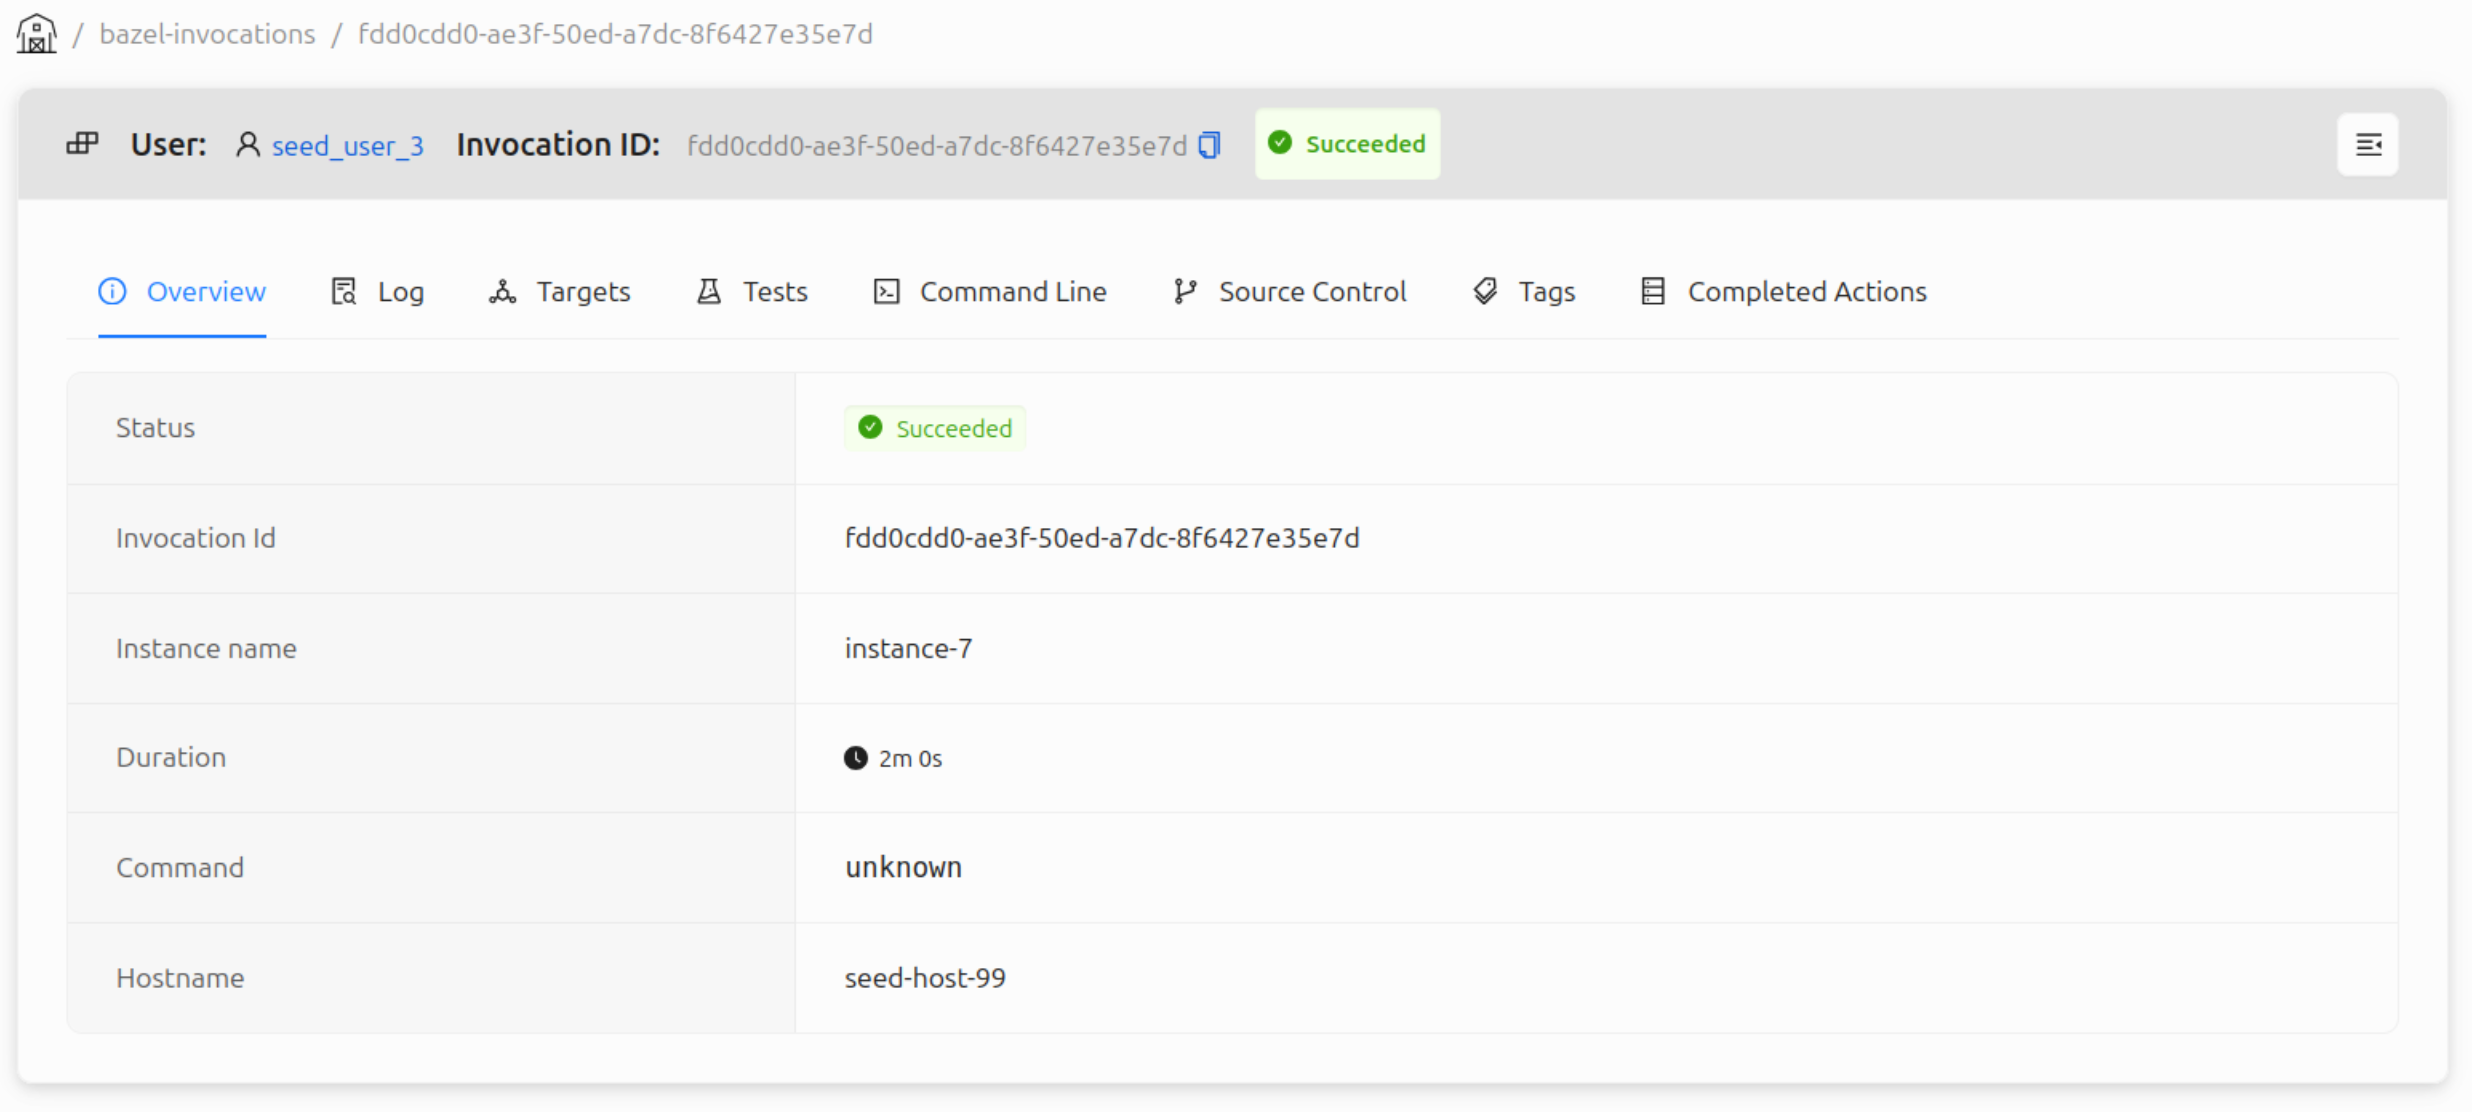
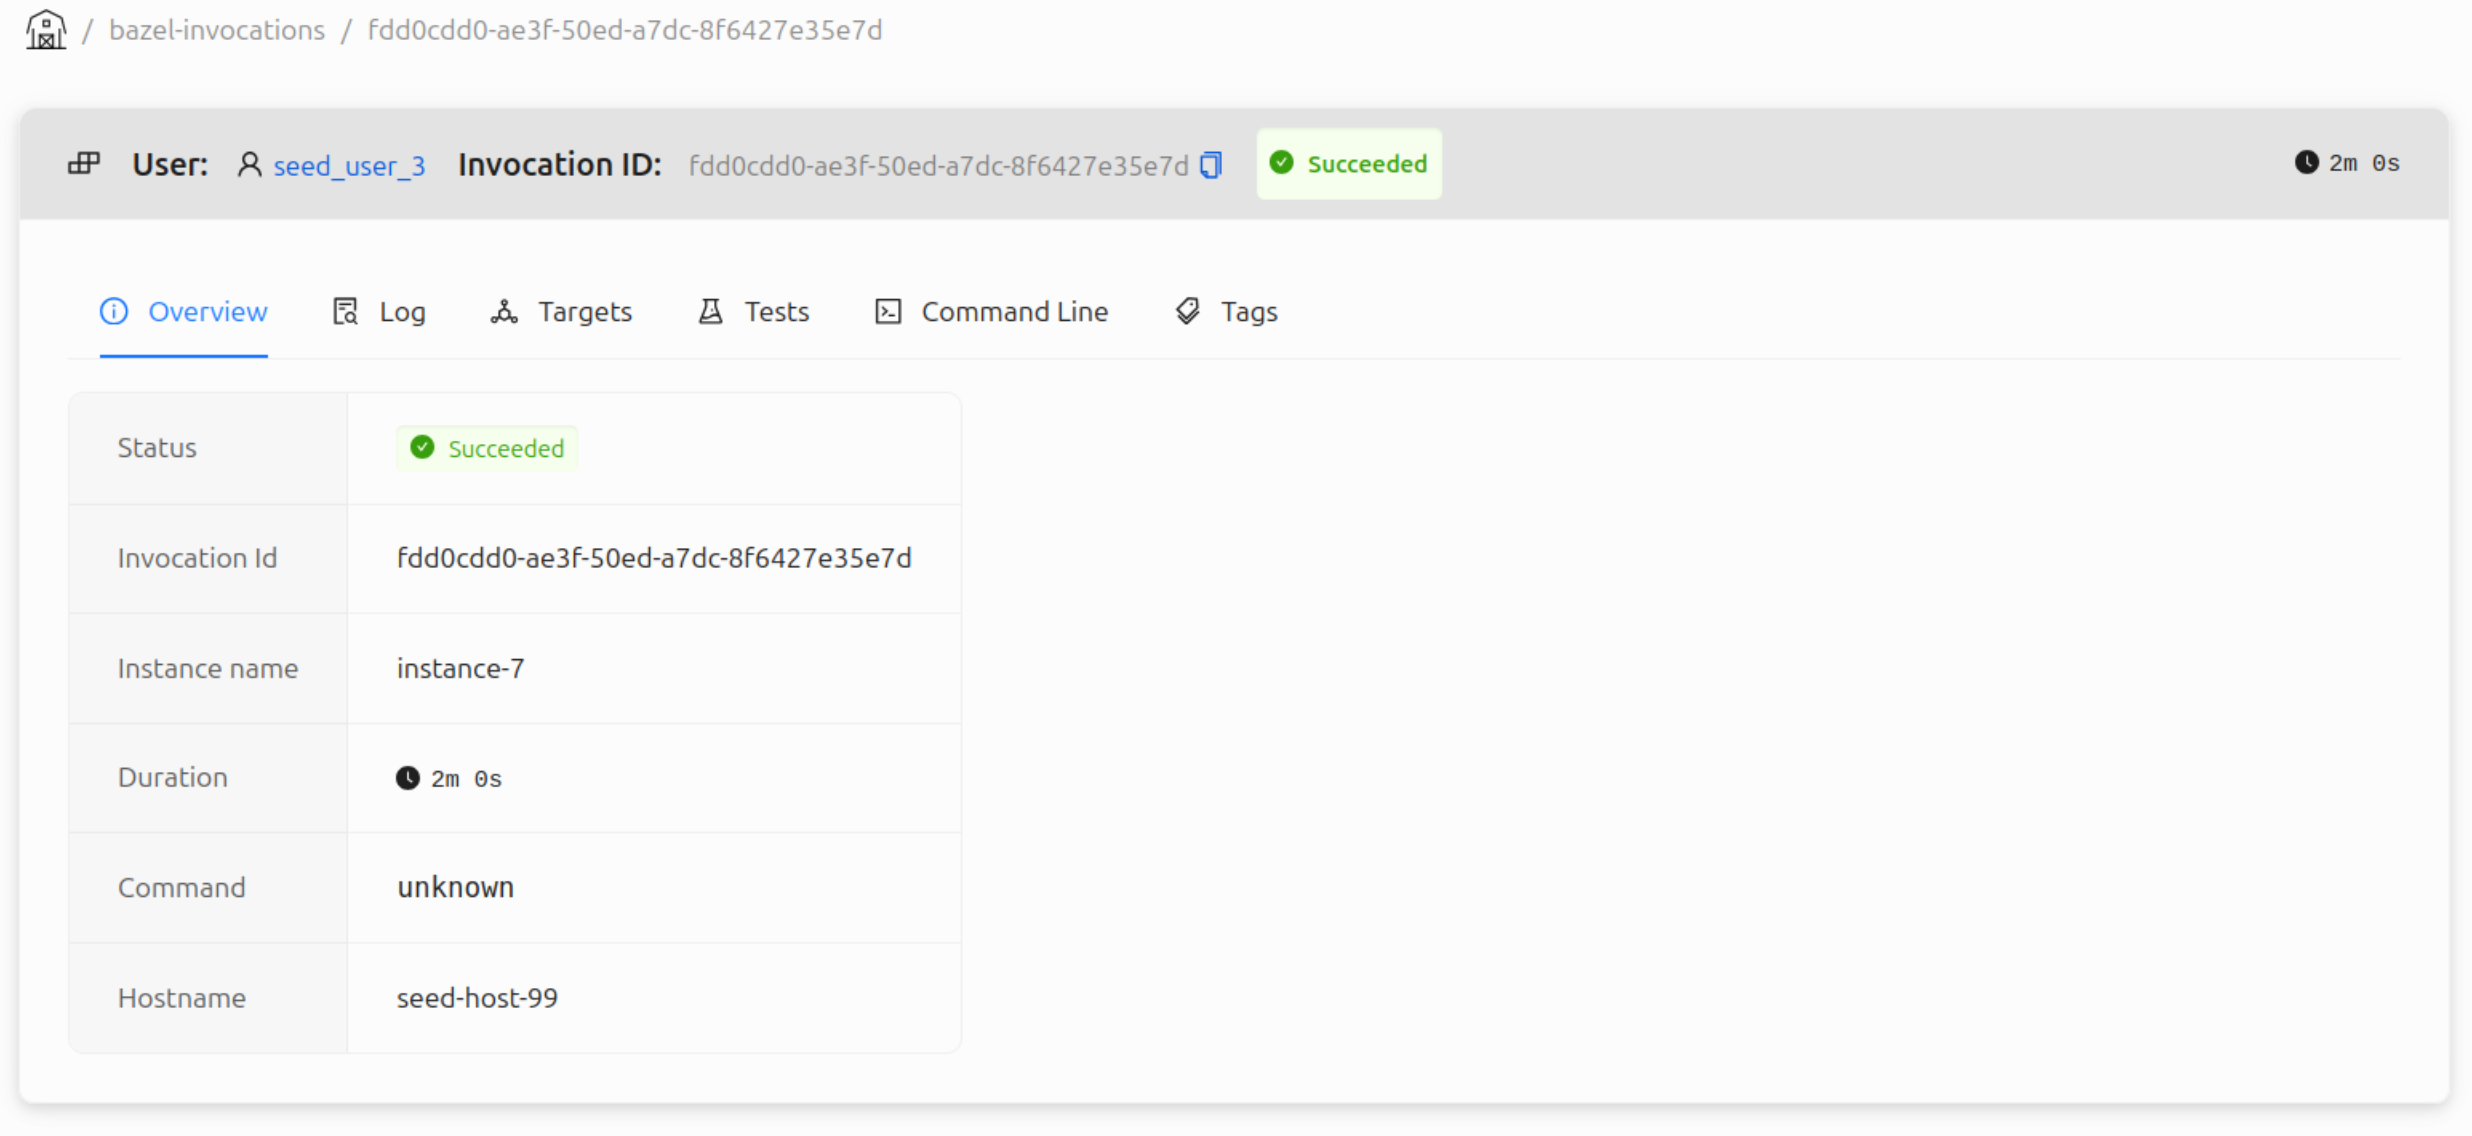
Revise from feedback

diff --git a/blog/2026-08-19-bb-portal/2026-09-16-bb-portal-showcase.md b/blog/2026-08-19-bb-portal/2026-09-16-bb-portal-showcase.md
@@ -26,18 +26,19 @@ tests, and targets; the storage daemon shares information
 about objects in the Action Cache (AC) and Content Addressable Storage (CAS);
 the scheduler shares information about workers and execution status.
 
-An example setup in of Buildbarn with the portal can be found in [bb-deployments](https://github.com/buildbarn/bb-deployments/):
+An example setup of Buildbarn with the portal can be found in [bb-deployments](https://github.com/buildbarn/bb-deployments/):
 
 ![bb-deployments-example](./bb-deployments-example.jpg)
 
 Much like other Buildbarn components, the portal's endpoints and services
 can be protected by configuring authentication policies and authorizers.
-The portal uses instances names to determine access.
+The portal uses instance names to determine access.
 
 ## Build event processing
 
-BEP event data are processed and stored in the portal's database.
-The events can be published to the portal in two ways: either from an uploaded file,
+BEP event data is processed and stored in the portal's database.
+The events can be published to the portal in two ways: either from an uploaded file
+created by Bazel using the `--build_event_json_file` flag,
 or as a stream from Bazel with its [Build Event Service](https://bazel.build/remote/bep#build-event-service)
 (BES) protocol, which essentially consists of gRPC encoded BEP events.
 
@@ -46,37 +47,33 @@ or as a stream from Bazel with its [Build Event Service](https://bazel.build/rem
 An invocation contains information relating to a single Bazel
 command, such as `run`, `build`, or `test`. 
 
-***TODO: Remove corresponding tab in image if Completed Actions Log is excluded***
-
 ![invocations-table](./invocations-table.png)
 
-The portal stores invocation data such as the command log, targets,
+The portal stores invocation data such as the command line, logs, targets,
 action cache and timing metrics, and more. If authentication is
 configured for the BES service, the user responsible for the invocation
 can be saved to the database and will then be linked to the invocation.
-
-***TODO: Remove corresponding tab in image if Completed Actions Log is excluded***
 
 ![invocation-details](./invocation-details.png)
 
 An invocation can be associated with metadata extracted from the machine
 running the Bazel command. This is useful when running
 Bazel on a CI runner, as the invocation can be associated with information
-pertaining to what triggered the invocation.
+pertaining to what triggered it.
 
 The metadata extraction is configurable to suit different CI systems.
 Such a configuration specifies a list of fields and how they should be set,
 often retrieved from the machine's environment variables. These fields are referred to as "tags".
 For example, in the Github Actions configuration included in the BB Portal
 repository, tags for pull request, workflow, job, and action are configured,
-shown below. The repository also includes example configurations for Gitlab
+shown below. The repository also includes example configurations for Gitlab CI/CD
 and Semaphore.
 
 ![invocation-tags](./invocation-tags.png)
 
 ### Builds
 
-A BB Portal build is a collection of invocations, grouped my tags.
+A BB Portal build is a collection of invocations, grouped by tags.
 Similarly to invocations, tag extractions are configurable.
 Below is an example view of the builds table using the Github
 Actions example configuration, defining tags for repository,
@@ -125,7 +122,7 @@ and the ability to compare two actions:
 ## BB Scheduler web UI integration
 
 The BB Scheduler web UI is integrated into the portal
-with full feature parity.
+with close to full feature parity.
 
 ![scheduler-overview](./scheduler-overview.png)
 
@@ -148,18 +145,6 @@ event handling traffic.
 ### Tracing
 
 The portal can be configured to expose an OpenTelemetry OTLP
-endpoint, enabling tracing which can be consumed by for example Jaeger.
+endpoint, enabling tracing that can be consumed by tools like Jaeger.
 The traces grant insight into the database and the portal's HTTP
 servers.
-
-### Completed actions logger
-
-(***TODO: This feature does not have a PR upstream yet, might not be included***)
-
-The portal has an endpoint for Completed Action Logger.
-This service allow Buildbarn workers to stream details
-of completed actions to the portal, which links Bazel
-actions with invocations. See [ADR #6](https://github.com/buildbarn/bb-adrs/blob/main/0006-operation-logging-and-monetary-resource-usage.md)
-for more information.
-
-![completed-actions-viewer](completed-actions-viewer.png)
